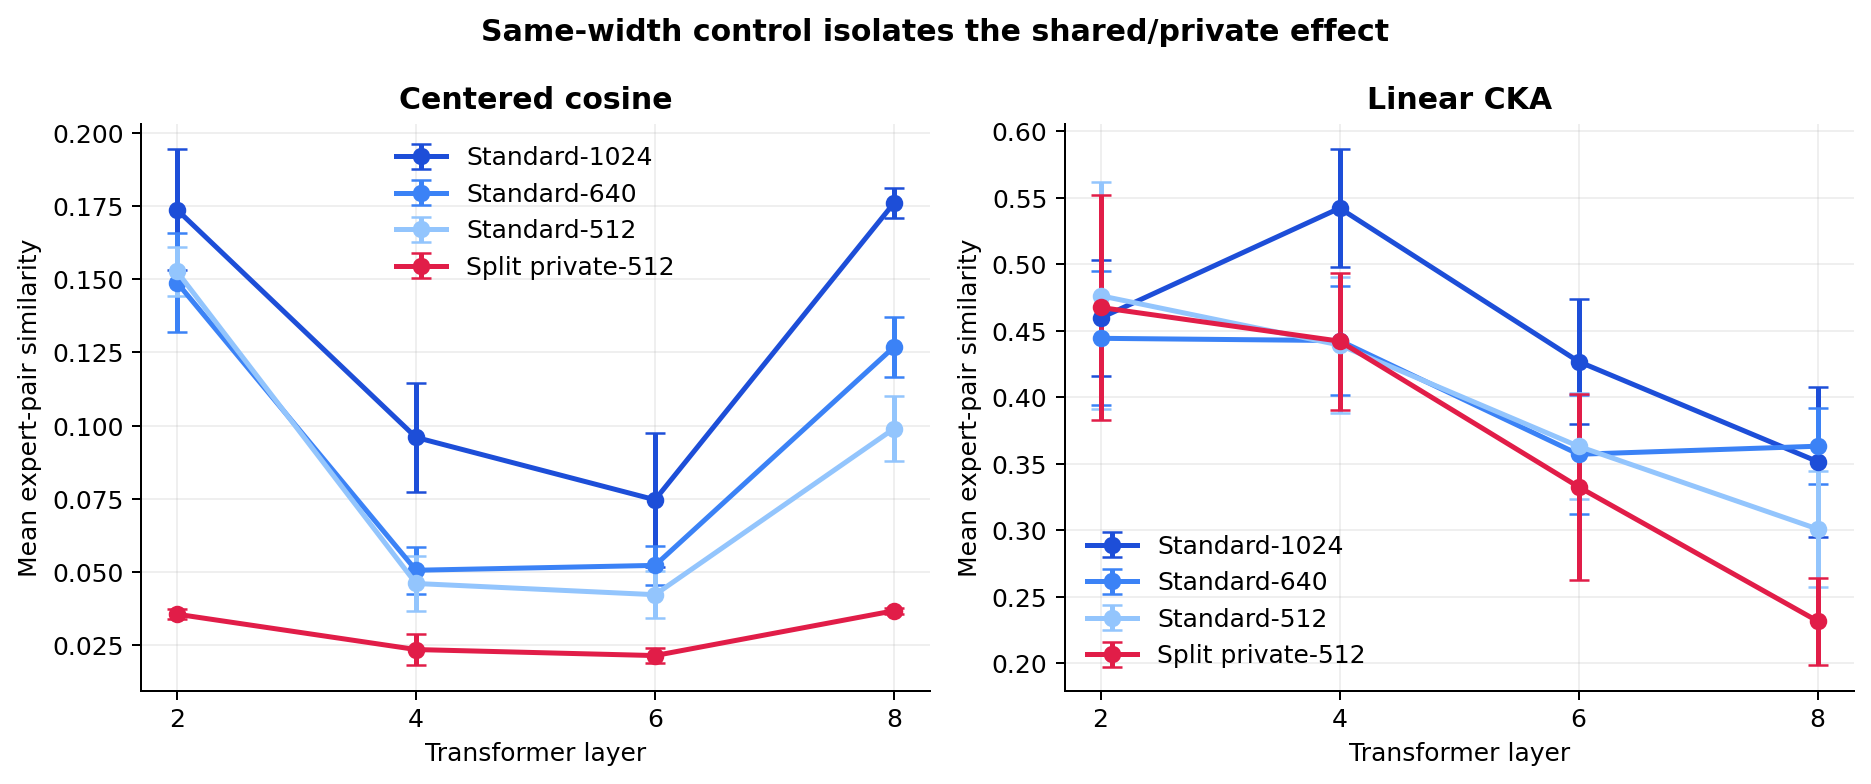
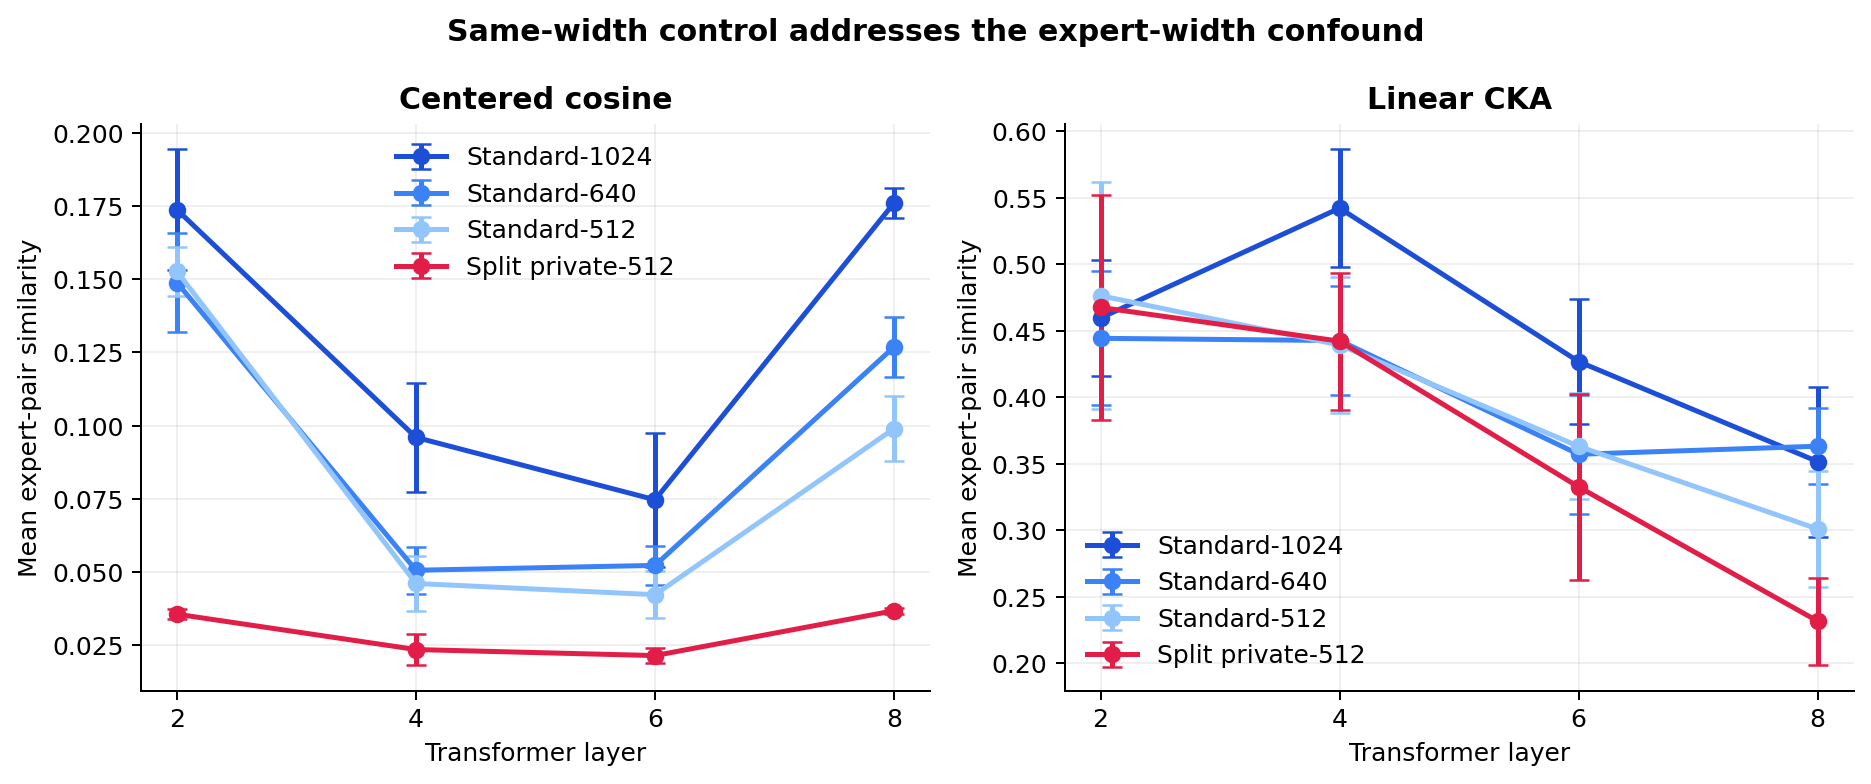
Tighten experimental claims

Changed region(s): [[0.217, 0.0, 0.775, 0.0612]]

diff --git a/scripts/summarize_mechanism_results.py b/scripts/summarize_mechanism_results.py
@@ -291,7 +291,7 @@ def plot_similarity(values: dict, output_dir: Path) -> None:
             title=titles[metric],
         )
         axis.legend()
-    fig.suptitle("Same-width control isolates the shared/private effect", fontweight="bold")
+    fig.suptitle("Same-width control addresses the expert-width confound", fontweight="bold")
     fig.tight_layout()
     fig.savefig(output_dir / "width_controlled_similarity.png", bbox_inches="tight")
     plt.close(fig)

diff --git a/README.md b/README.md
@@ -51,7 +51,7 @@ Every result below is the mean of the same five paired seeds after 10,000 optimi
 
 ![Validation quality versus total stored parameters](results/frontier/quality_vs_parameters.png)
 
-The sweep is not monotonic: allocating some width to a shared path helps parameter efficiency, but allocating most of it to the shared path eventually removes too much conditional capacity. Of the tested ratios, **Split-25 is the best operating point**. It has the lowest numerical mean loss, beats Split-50 in all five seeds, and stores 7.2% fewer total parameters than Standard-1024. Within each replaced MoE layer, it stores width `256 + 4 × 768 = 3328` instead of `4 × 1024 = 4096`, an 18.75% reduction.
+The sweep is not monotonic: allocating some width to a shared path helps parameter efficiency, but allocating most of it to the shared path eventually removes too much conditional capacity. **Among the tested shared fractions, Split-25 achieved the lowest observed mean validation loss while using 7.2% fewer total parameters than Standard-1024.** It also beats Split-50 in all five seeds. Within each replaced MoE layer, it stores width `256 + 4 × 768 = 3328` instead of `4 × 1024 = 4096`, an 18.75% reduction.
 
 ![Shared/private active-width allocation sweep](results/frontier/width_sweep.png)
 
